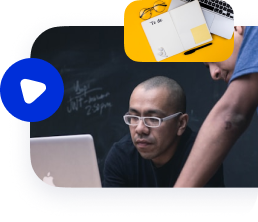
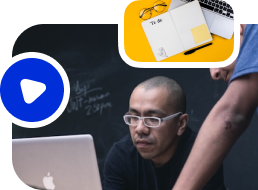
Walaa/cur 102 implement static UI for recommended for you section (#28)
* working on Bounties Card

* work on Spaces cards

* fix after merge

* add drop-shadow to image and change the training image

* fix cards in onboarding dashboard

---------

diff --git a/apps/curator-frontend/src/components/complete-profile-card.tsx b/apps/curator-frontend/src/components/complete-profile-card.tsx
@@ -3,34 +3,16 @@ import { IdProfileIcon } from '@/icons/icons';
 import TagCard from './tag-card';
 export function CompleteProfileCard() {
   return (
-    <div
-      className="flex  flex-row 
-             p-5 sm:py-5 sm:pl-5 sm:pr-0 gap-5
-             w-full 
-             bg-accent-blue-grey-bg rounded-2xl"
-    >
-      {/* Left side content */}
-      <div
-        className="flex flex-col justify-between items-start
-               gap-5
-               flex-grow w-full "
-      >
-        {/* Titles container */}
+    <div className="flex flex-row p-5 sm:py-5 sm:pl-5 sm:pr-0 gap-5 w-full bg-accent-blue-grey-bg rounded-2xl">
+      <div className="flex flex-col justify-between items-start gap-5 flex-grow w-full">
         <div className="flex flex-col items-start gap-1 w-full">
           <h2 className="small-title text-dark-text">Complete your profile</h2>
           <p className="body-copy text-dark-text">Boost your chance to get accepted to spaces and earn bounties</p>
         </div>
-        {/* Button */}
         <Button>Get Started</Button>
       </div>
-
-      {/* Right side image group */}
-      <div
-        className="relative flex items-center justify-end
-                
-               order-1 mt-4 sm:mt-0"
-      >
-        <IdProfileIcon className="w-[120px]  h-[98px]" />
+      <div className="relative flex items-center justify-end order-1 mt-4 sm:mt-0">
+        <IdProfileIcon className="h-[95px] drop-shadow-[0_12px_16px_rgba(127,132,159,0.2)]" />
       </div>
     </div>
   );
@@ -38,17 +20,8 @@ export function CompleteProfileCard() {
 
 export function JoinSpaceCard() {
   return (
-    <div
-      className="flex flex-col sm:flex-row justify-between items-start
-             p-5 gap-5
-             w-full 
-             bg-accent-blue-grey-bg rounded-2xl"
-    >
-      <div
-        className="flex flex-col justify-center items-start  gap-5
-               flex-grow w-full sm:w-[70%]"
-      >
-        {/* Titles container */}
+    <div className="flex flex-col sm:flex-row justify-between items-start p-5 gap-5 w-full bg-accent-blue-grey-bg rounded-2xl">
+      <div className="flex flex-col justify-center items-start gap-5 flex-grow w-full sm:w-[70%]">
         <div className="flex flex-col items-start gap-1 w-full">
           <h2 className="small-title text-dark-text">Join a space</h2>
           <p className="body-copy text-dark-text">
@@ -56,13 +29,7 @@ export function JoinSpaceCard() {
             space, an editor will need to approve it.
           </p>
         </div>
-
-        {/* Tags */}
-        <div
-          className="flex flex-row flex-wrap items-center gap-2 
-                 w-full 
-                 p-0"
-        >
+        <div className="flex flex-row flex-wrap items-center gap-2 w-full p-0">
           <TagCard image="/images/education_icon.png" tag="Education" action="Join" />
           <TagCard image="/images/world_affairs_icon.png" tag="World affairs" action="Join" />
           <TagCard image="/images/health_icon.png" tag="Health" action="Join" />
@@ -75,34 +42,20 @@ export function JoinSpaceCard() {
 
 export function CompleteTrainingCard() {
   return (
-    <div
-      className="flex  flex-row 
-             p-5 sm:py-5 sm:pl-5 sm:pr-0 gap-5
-             w-full 
-             bg-accent-blue-grey-bg rounded-2xl"
-    >
-      {/* Left side content */}
-      <div
-        className="flex flex-col justify-between items-start
-               gap-5
-               flex-grow w-full "
-      >
-        {/* Titles container */}
+    <div className="flex  flex-row p-5 sm:py-5 sm:pl-5 sm:pr-0 gap-5 w-full bg-accent-blue-grey-bg rounded-2xl">
+      <div className="flex flex-col justify-between items-start gap-5 flex-grow w-full ">
         <div className="flex flex-col items-start gap-1 w-full">
           <h2 className="small-title text-dark-text">Complete training</h2>
           <p className="body-copy text-dark-text">Watch videos and complete quizzes to learn how to win bounties!</p>
         </div>
-        {/* Button */}
         <Button>Finish training</Button>
       </div>
-
-      {/* Right side image group */}
-      <div
-        className="  relative flex items-center justify-end
-                
-               order-1 mt-4 sm:mt-0"
-      >
-        <img src="/images/Training_2x.png" alt="training" className="w-[120px]  h-[98px]" />
+      <div className="relative flex items-center justify-end order-1 mt-4 sm:mt-0">
+        <img
+          src="/images/Training_2x.png"
+          alt="training"
+          className="h-[95px] drop-shadow-[0_12px_16px_rgba(127,132,159,0.2)]"
+        />
       </div>
     </div>
   );

diff --git a/apps/curator-frontend/src/components/bounties-tab.tsx b/apps/curator-frontend/src/components/bounties-tab.tsx
@@ -1,0 +1,100 @@
+import { Tag } from '@geo/design-system';
+import { BountyFilledIcon, DifficultyStarIcon } from '@/icons/icons';
+import TagCard from './tag-card';
+
+export function BountiesTab() {
+  const bounties: BountyItem[] = [
+    {
+      category: { name: 'World affairs', image: '/images/world_affairs_icon.png' },
+      points: '+3K',
+      title: 'Fix errors and issues',
+      description: 'Add golf players including information such as name, description, years active, tournaments played',
+      maxContributors: '10',
+      difficulty: 'Moderate',
+    },
+    {
+      category: { name: 'Education', image: '/images/education_icon.png' },
+      points: '+5K',
+      title: 'Optimize API performance',
+      description: 'Improve response times by 20% using caching and query tuning.',
+      maxContributors: 'Unlimited',
+      difficulty: 'Hard',
+    },
+    {
+      category: { name: 'Health', image: '/images/health_icon.png' },
+      points: '+2K',
+      title: 'Redesign landing page',
+      description: 'Modernize layout and improve accessibility compliance.',
+      maxContributors: '5',
+      difficulty: 'Easy',
+    },
+    {
+      category: { name: 'Crypto', image: '/images/crypto_icon.png' },
+      points: '+2K',
+      title: 'Redesign landing page',
+      description: 'Modernize layout and improve accessibility compliance.',
+      maxContributors: '5',
+      difficulty: 'Easy',
+    },
+  ];
+
+  return (
+    <div className="grid gap-4 py-4 grid-cols-[repeat(auto-fit,minmax(280px,1fr))]">
+      {bounties.map((item, index) => (
+        <BountyCard key={`card_${index + 1}`} item={item} />
+      ))}
+    </div>
+  );
+}
+interface BountyItem {
+  category: {
+    name: string;
+    image: string;
+  };
+  points: string;
+  title: string;
+  description: string;
+  maxContributors: string;
+  difficulty: string;
+}
+interface BountyCardProps {
+  item: BountyItem;
+}
+
+export function BountyCard({ item }: BountyCardProps) {
+  return (
+    <div
+      className="flex flex-col justify-between items-start 
+                 bg-white border border-grey-light rounded-2xl
+                 p-5 gap-10
+                 w-full max-w-sm
+                 box-border relative"
+    >
+      <div className="flex flex-col items-start gap-5 w-full">
+        <div className="flex flex-row justify-between items-center gap-6 w-full">
+          <TagCard image={item.category.image} tag={item.category.name} action="" hasBackground={false} />
+          <Tag variant="points" icon={<BountyFilledIcon />} text={item.points} />
+        </div>
+
+        <div className="flex flex-col items-start gap-2">
+          <div className="w-full small-title">{item.title}</div>
+          <div className="w-full body-copy text-gray-600">{item.description}</div>
+        </div>
+      </div>
+
+      <div className="flex flex-col items-start gap-2 w-full">
+        <div className="flex flex-row justify-between items-start gap-1 w-full">
+          <div className="tag-text flex items-center text-dark-text">Max contributors</div>
+          <div className="flex flex-row items-center gap-1.5 tag-text text-dark-text">{item.maxContributors}</div>
+        </div>
+
+        <div className="flex flex-row justify-between items-start gap-1 w-full">
+          <div className="tag-text text-dark-text">Difficulty</div>
+          <div className="flex flex-row items-center gap-1.5">
+            <DifficultyStarIcon /> {item.difficulty}
+          </div>
+        </div>
+      </div>
+    </div>
+  );
+}

diff --git a/apps/curator-frontend/src/components/spaces-tab.tsx b/apps/curator-frontend/src/components/spaces-tab.tsx
@@ -1,0 +1,75 @@
+import { Button, Divider } from '@geo/design-system';
+import React from 'react';
+
+export function SpacesTab() {
+  const spaces = [
+    {
+      imagePath: '/images/spaces-images/Health.png',
+      name: 'Medicine',
+      bountiesCount: 26,
+    },
+    {
+      imagePath: '/images/spaces-images/Health.png',
+      name: 'Health',
+      bountiesCount: 15,
+    },
+    {
+      imagePath: '/images/spaces-images/History.png',
+      name: 'History',
+      bountiesCount: 20,
+    },
+    {
+      imagePath: '/images/spaces-images/Medicine.png',
+      name: 'Medicine',
+      bountiesCount: 15,
+    },
+    {
+      imagePath: '/images/spaces-images/Podcasts.png',
+      name: 'Podcasts',
+      bountiesCount: 2,
+    },
+    {
+      imagePath: '/images/spaces-images/Regions.png',
+      name: 'Regions',
+      bountiesCount: 2,
+    },
+  ];
+  return (
+    <div className="w-full mt-10">
+      {spaces.map((space, idx) => (
+        <React.Fragment key={`space_${space.name + idx + 1}`}>
+          <SpaceCard imagePath={space.imagePath} name={space.name} bountiesCount={space.bountiesCount} />
+          {idx !== spaces.length - 1 && <Divider />}
+        </React.Fragment>
+      ))}
+    </div>
+  );
+}
+interface SpaceItem {
+  imagePath: string;
+  name: string;
+  bountiesCount: number;
+}
+
+interface SpaceCardProps extends SpaceItem {}
+export function SpaceCard({ imagePath, name, bountiesCount }: SpaceCardProps) {
+  return (
+    <div className="flex flex-row items-center justify-between gap-5 w-full my-3">
+      {/* Image */}
+      <div className="w-[60px] h-[60px] rounded-[15px] relative flex-none overflow-hidden">
+        <img src={imagePath} alt={name} className="object-cover object-center rounded-[15px] w-full h-full" />
+      </div>
+
+      {/* Info */}
+      <div className="flex flex-col items-start gap-1 flex-grow">
+        <div className="small-title text-dark-text">{name}</div>
+        <div className="tag-text text-dark-text">{bountiesCount} bounties</div>
+      </div>
+
+      {/* Button */}
+      <div className="flex flex-row items-center flex-none order-2">
+        <Button variant="secondary">Join</Button>
+      </div>
+    </div>
+  );
+}

diff --git a/packages/design-system/src/components/tabs.tsx b/packages/design-system/src/components/tabs.tsx
@@ -20,8 +20,8 @@ export function Tabs({ tabs, panels, defaultValue }: TabsProps) {
           <BaseTabs.Tab
             key={value}
             className={`
-              flex h-8 items-center justify-center border-0 px-2 break-keep whitespace-nowrap  
-              tiny-title text-grey-light-text outline-none select-none 
+              flex h-8 items-center justify-center   px-2 break-keep whitespace-nowrap  
+              tiny-title text-grey-light-text  pb-1 
               data-[selected]:pb-1
               data-[selected]:border-b-2
               data-[selected]:border-dark-text
@@ -42,8 +42,7 @@ export function Tabs({ tabs, panels, defaultValue }: TabsProps) {
         <BaseTabs.Panel
           key={value}
           className="
-            relative flex h-32 items-center justify-center
-            -outline-offset-1 outline-blue-800
+            -outline-offset-1 
             focus-visible:rounded-md focus-visible:outline focus-visible:outline-2
           "
           value={value}

diff --git a/apps/curator-frontend/src/components/rsvp-to-nonrecurring-dashboard.tsx b/apps/curator-frontend/src/components/rsvp-to-nonrecurring-dashboard.tsx
@@ -1,9 +1,9 @@
 import { Tabs } from '@geo/design-system';
-import { BountiesTab } from './BountiesTab';
+import { BountiesTab } from './bounties-tab';
 import { CommunicationCalls } from './communication-calls';
 import MyBountiesHeader from './my-bounties-header';
-import { SpacesTab } from './SpacesTab';
 import SectionTitle from './section-title';
+import { SpacesTab } from './spaces-tab';
 import TitleWithSubtitle from './title-with-subtitle';
 
 export default function RsvpToNonRecurringDashboard() {
@@ -25,7 +25,7 @@ export default function RsvpToNonRecurringDashboard() {
           <div className="flex flex-col gap-6 flex-[3]">
             <MyBountiesHeader />
             <TitleWithSubtitle title="Recommended for you" subtitle="">
-              <Tabs tabs={tabs} panels={panels} defaultValue="overview" />
+              <Tabs tabs={tabs} panels={panels} defaultValue="Bounties" />
             </TitleWithSubtitle>
           </div>
           <div className="flex-[1]">

diff --git a/apps/curator-frontend/src/icons/icons.tsx b/apps/curator-frontend/src/icons/icons.tsx
@@ -3,6 +3,7 @@ import BountyFilledIcon from '../icons/bounty_filled.svg?react';
 import BurgerMenuIcon from '../icons/burger_menu.svg?react';
 import CloseSidebarIcon from '../icons/close_sidebar.svg?react';
 import CompletedIcon from '../icons/completed.svg?react';
+import DifficultyStarIcon from '../icons/difficulty_star.svg?react';
 import GrayCircleIcon from '../icons/gray_circle.svg?react';
 import HoriDotsIcon from '../icons/hori_dots_icon.svg?react';
 import IdProfileIcon from '../icons/id_profile.svg?react';
@@ -73,6 +74,7 @@ export {
   DashboardIcon,
   UnComletedIcon,
   BountyIcon,
+  DifficultyStarIcon,
   ClearIcon,
   ChevronDownIcon,
   CheckIcon,

diff --git a/packages/design-system/src/index.ts b/packages/design-system/src/index.ts
@@ -9,6 +9,7 @@ export * from './components/input.js';
 export * from './components/ipfs-image.js';
 export * from './components/select.js';
 export * from './components/tabs.js';
+export * from './components/tag.js';
 export * from './components/textarea.js';
 export * from './hooks/use-geo-account.js';
 export type * from './types.js';
